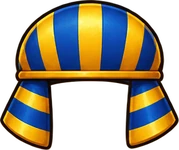
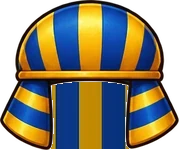
Lenda do Campinho v310: capacetes fechados testados com todos os penteados (cabelo não escapa, rosto no lugar)
- chapeus_arte.js: elmo/máscara/nemes/capacetes de viagem medidos por uma "cabeça virtual" (pelo tronco, igual para
  qualquer penteado); o cabelo que a arte não cobre é apagado antes do capacete (o vidro conta como coberto);
  ajuste fino do capacete de mergulho (janela nos olhos) e do elmo
- artes: nemes e faixa do faraó fechados atrás; capacete do dragão com a abertura do rosto transparente (ASSET_VER 310)

diff --git a/frontend/public/lenda-do-campinho/js/chapeus_arte.js b/frontend/public/lenda-do-campinho/js/chapeus_arte.js
@@ -23,6 +23,8 @@
     cartola_londres: 'cartola', chapeu_capitao: 'tricorne', nemes_dourado: 'nemes', faixa_farao: 'nemes', mascara_farao: 'mascara',
     elmo_negro: 'elmo', capacete_dragao: 'elmo', capacete_estelar: 'elmo',
   };
+  // v310: artes refeitas com o mesmo nome (o navegador guardava a antiga): nemes/faixa do faraó fechados atrás, dragão com o rosto aberto
+  if (typeof ASSET_VER !== 'undefined') Object.assign(ASSET_VER, { ch_nemes_dourado_c: 310, ch_faixa_farao_c: 310, ch_capacete_dragao_f: 310, ch_capacete_dragao_l: 310 });
   const ALTO = new Set(['faixa', 'tricorne', 'elmo', 'mascara', 'nemes', 'fone', 'aba', 'louros']);
   let faltou = false;
   setInterval(() => { if (faltou) { faltou = false; try { SPR_CACHE.clear(); } catch (e) { } } }, 800);
@@ -42,20 +44,97 @@
   const _specCh = specDe;
   specDe = function (look) { const sp = _specCh.apply(this, arguments); if (look && look.chapeuVar) sp.chapeuVar = look.chapeuVar; return sp; };
 
+  // v311: ajuste fino por item (largura, base e deslocamento), medido com todos os penteados
+  const AJ = { capacete_mergulho: { larg: 76, base: CAB.cy + CAB.ry + 22, dx: 4.5, dxl: -15 }, capacete_astro: { larg: 62, base: CAB.cy + CAB.ry + 15 }, elmo_negro: { dx: 4 } };
+  const COBRE_TUDO = new Set(['mascara', 'elmo', 'nemes']); // cobrem a cabeça inteira: o cabelo de fora some (abaixo)
+  // onde o chapéu fica (unidades da cabeça) e de que parte da arte
+  function geometria(id, vis) {
+    const tipo = CHAPEU[id]; if (!tipo) return null;
+    const fr = aSprite('ch_' + id + '_f'), im = vis === 'f' ? fr : aSprite('ch_' + id + '_' + vis); if (!fr || !im) return null;
+    const aj = AJ[id] || {}, [larg0, base0] = TIPO[tipo], larg = aj.larg || larg0, base = aj.base || base0, s = larg / fr.width;
+    // v311: o que cobre a cabeça toda é medido pela "cabeça virtual" (abaixo), igual para qualquer penteado
+    const cobre = COBRE_TUDO.has(tipo), k = 1;
+    const w = im.width * s * k, cx = CAB.cx + (aj.dx || 0) + (vis === 'l' ? (cobre ? (aj.dxl || 0) : 1.5) : 0);
+    const corte = tipo !== 'faixa' ? 0 : id === 'faixa_trovao' ? 0.18 : 0.48; // faixa: a arte é o anel inteiro; na cabeça só aparece a frente dele
+    const sy = im.height * corte, sh = im.height - sy, h = sh * s * k;
+    return { im, sy, sh, x0: cx - w / 2, y0: base - h, w, h, tipo };
+  }
+  let CORTE = null; // (cabeça da célula sendo desenhada, para os capacetes fechados)
   const _chapeuVetor = chapeu;
   chapeu = function (x, sp, v) {
     const id = sp && sp.chapeuVar, tipo = id && CHAPEU[id];
     if (!tipo) return _chapeuVetor.apply(this, arguments);
-    const vis = v === 'l' ? 'l' : v === 'c' ? 'c' : 'f';
-    const fr = aSprite('ch_' + id + '_f'), im = vis === 'f' ? fr : aSprite('ch_' + id + '_' + vis);
-    if (!fr || !im) { faltou = true; return _chapeuVetor.apply(this, arguments); } // enquanto a arte chega: o desenho de antes
-    const [larg, base] = TIPO[tipo], s = larg / fr.width; // mesma escala nas 3 vistas (a arte foi feita junto)
-    // v309: o que cobre a cabeça toda (máscara, elmo, nemes), de lado, fica um pouco maior e mais para trás: senão o cabelo aparecia na nuca
-    const cobre = vis === 'l' && (tipo === 'mascara' || tipo === 'elmo' || tipo === 'nemes'), k = cobre ? 1.14 : 1;
-    const w = im.width * s * k, cx = CAB.cx + (vis === 'l' ? (cobre ? -2.5 : 1.5) : 0);
-    const corte = tipo !== 'faixa' ? 0 : id === 'faixa_trovao' ? 0.18 : 0.48; // faixa: a arte é o anel inteiro; na cabeça só aparece a frente dele
-    const sy = im.height * corte, sh = im.height - sy, h = sh * s * k;
-    x.save(); x.imageSmoothingQuality = 'high'; x.drawImage(im, 0, sy, im.width, sh, cx - w / 2, base - h, w, h); x.restore();
+    const vis = v === 'l' ? 'l' : v === 'c' ? 'c' : 'f', g = geometria(id, vis);
+    if (!g) { faltou = true; return _chapeuVetor.apply(this, arguments); } // enquanto a arte chega: o desenho de antes
+    x.save(); x.imageSmoothingQuality = 'high';
+    if (COBRE_TUDO.has(tipo) && CORTE && CORTE.V) { // sai da caixa da cabeça (que cresce com o cabelo) e vai para a cabeça virtual
+      const cab = CORTE.cab, kc = (cab[2] - cab[0]) / 54, cxc = (cab[0] + cab[2]) / 2 + (v === 'l' ? -2 * kc : 0), V = CORTE.V;
+      x.translate(50, 27); x.scale(1 / kc, 1 / kc); x.translate(-cxc, -cab[1]);
+      x.translate(V.cx, V.y0); x.scale(V.k, V.k); x.translate(-50, -27);
+    }
+    x.drawImage(g.im, 0, g.sy, g.im.width, g.sh, g.x0, g.y0, g.w, g.h); x.restore();
   };
+  // a cabeça "de verdade" (sem o volume do cabelo): pelo tronco, que não muda com o penteado
+  // (de costas o cabelo comprido cobre o tronco e engana a medida: usa a medida da vista de frente)
+  function cabecaVirtual(meta, v, metaFrente) {
+    const tr = (v === 'c' && metaFrente && metaFrente.tronco) || (meta && meta.tronco); if (!tr) return null;
+    const k = (tr[2] - tr[0]) * (v === 'l' ? 2.55 : 1.53) / 54;
+    return { k, cx: (tr[0] + tr[2]) / 2 + (v === 'l' ? 2 : 0), y0: tr[1] - 52 * k };
+  }
+  /* ---------- v311: capacete fechado não deixa cabelo escapar ----------
+     Com o elmo, a máscara, o nemes e os capacetes de viagem, o cabelo grande (black power, rabo de cavalo,
+     liso longo) aparecia em volta. Antes de pôr o capacete, o cabelo (e o contorno dele) que fica FORA da
+     forma do capacete é apagado; o de dentro continua (nos capacetes de vidro ele aparece lá dentro). */
+  const _sprCorte = spriteBoneco;
+  spriteBoneco = function (look, vista = 'frente', q = 0) {
+    const id = look && look.chapeuVar, tipo = id && CHAPEU[id];
+    if (!tipo || !COBRE_TUDO.has(tipo)) return _sprCorte.apply(this, arguments);
+    try {
+      const sp = specDe(look), nome = folhaDoLook(sp, look), v = vista === 'costas' ? 'c' : vista === 'lado' ? 'l' : 'f';
+      const meta = (META_BONECOS[nome] || [])[(v === 'f' ? 0 : v === 'l' ? 1 : 2) * 4 + (q % 4)], g = geometria(id, v);
+      if (meta && meta.cabeca && g) CORTE = { cab: meta.cabeca, v, g, V: cabecaVirtual(meta, v, (META_BONECOS[nome] || [])[q % 4]) };
+      return _sprCorte.apply(this, arguments);
+    } finally { CORTE = null; }
+  };
+  const _tingeCorte = tingeCelula;
+  tingeCelula = function (base, cores) {
+    const out = _tingeCorte.apply(this, arguments);
+    if (!CORTE || !base || !base.rot) return out;
+    try { cortaCabelo(out, base, CORTE); } catch (e) { }
+    return out;
+  };
+  const ALFA = new WeakMap(); // canal alfa de cada arte (para saber o que o capacete cobre)
+  function alfaDe(im) {
+    let A = ALFA.get(im); if (A) return A;
+    const c = mkCanvas(im.width, im.height), x = c.getContext('2d', { willReadFrequently: true }); x.drawImage(im, 0, 0);
+    const W = im.width, H = im.height, dd = x.getImageData(0, 0, W, H).data; A = new Uint8Array(W * H);
+    // dentro do contorno conta como coberto (vidro do capacete, abertura do rosto): enche cada linha entre a 1ª e a última parte opaca
+    for (let y = 0; y < H; y++) {
+      let a = -1, b = -1; for (let xx = 0; xx < W; xx++) if (dd[(y * W + xx) * 4 + 3] >= 10) { if (a < 0) a = xx; b = xx; }
+      if (a >= 0) for (let xx = a; xx <= b; xx++) A[y * W + xx] = 255;
+    }
+    ALFA.set(im, A); return A;
+  }
+  function cortaCabelo(out, base, C) {
+    const { rot, d } = base, W = FOLHA_CW, H = FOLHA_CH, V = C.V; if (!V) return;
+    // a forma do capacete = a própria arte: fica só o cabelo que a arte cobre (o vidro conta: o cabelo aparece lá dentro)
+    const g = C.g, k = V.k, A = alfaDe(g.im); if (!A) return;
+    const fora = (x, y) => {
+      const u = (x - V.cx) / k + 50, v = (y - V.y0) / k + 27;
+      const ix = Math.floor((u - g.x0) / g.w * g.im.width), iy = Math.floor(g.sy + (v - g.y0) / g.h * g.sh);
+      if (ix < 0 || iy < 0 || ix >= g.im.width || iy >= g.im.height) return true;
+      return A[iy * g.im.width + ix] < 10;
+    };
+    const x = out.getContext('2d'), img = x.getImageData(0, 0, W, H), o = img.data, apagou = new Uint8Array(W * H);
+    for (let i = 0; i < rot.length; i++) if (rot[i] === 1 && fora(i % W, (i / W) | 0)) { o[i * 4 + 3] = 0; apagou[i] = 1; }
+    // o contorno escuro do cabelo apagado (não tem a cor-chave): some também, se estiver fora do capacete
+    for (let pass = 0; pass < 2; pass++) for (let i = 0; i < rot.length; i++) {
+      if (apagou[i] || rot[i] || o[i * 4 + 3] < 20) continue; const px = i % W, py = (i / W) | 0; if (!fora(px, py)) continue;
+      if (Math.max(d[i * 4], d[i * 4 + 1], d[i * 4 + 2]) > 110) continue;
+      let viz = false; for (let dy = -2; dy <= 2 && !viz; dy++) for (let dx = -2; dx <= 2 && !viz; dx++) { const j = i + dy * W + dx; if (j >= 0 && j < apagou.length && apagou[j]) viz = true; }
+      if (viz) { o[i * 4 + 3] = 0; apagou[i] = 1; }
+    }
+    x.putImageData(img, 0, 0);
+  }
   window.CHAPEUS_ARTE = CHAPEU; // (para os testes)
 }
